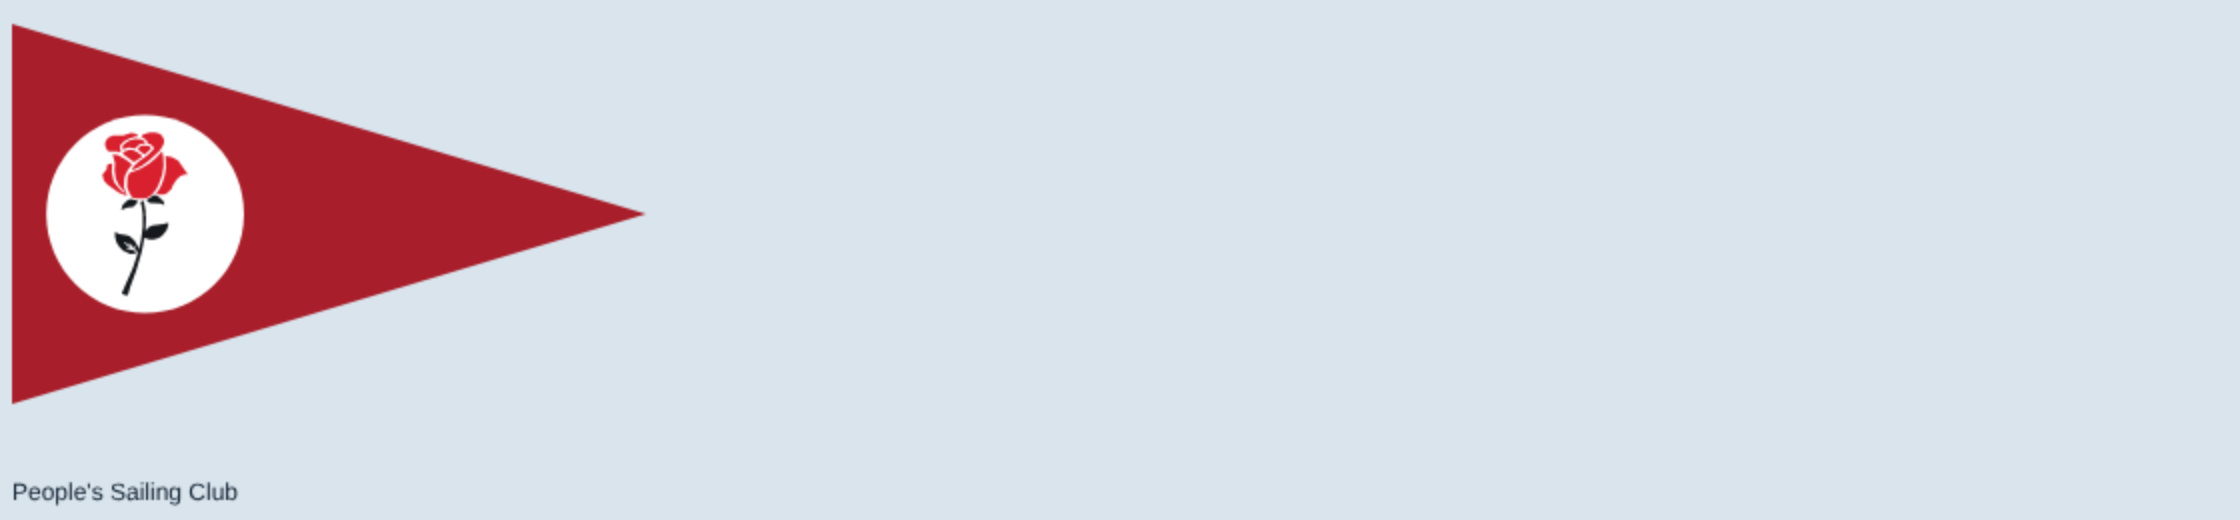
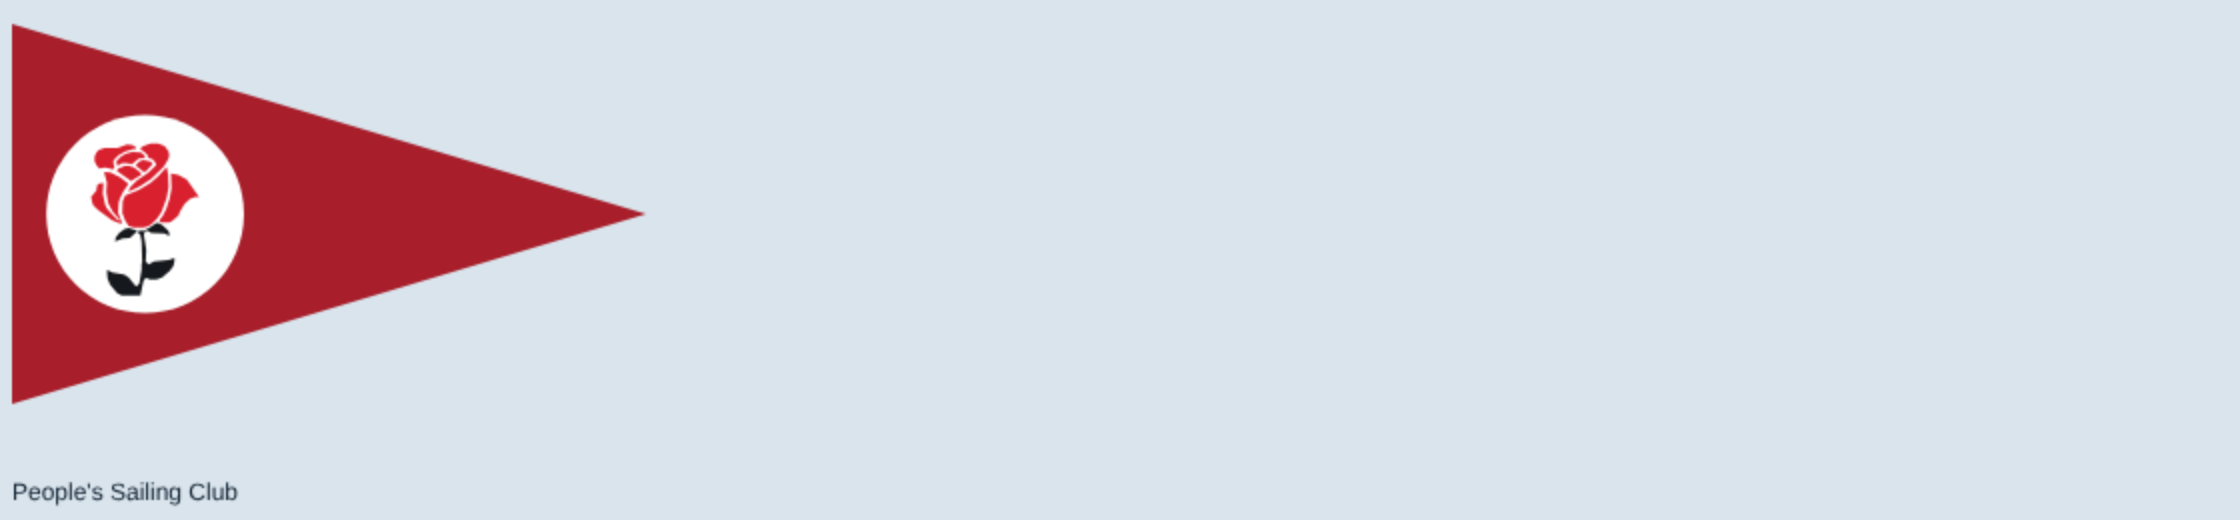
Burgees: People's rose larger and nearer the disc's center, solid leaves, shorter stem
Claude-Session: https://claude.ai/code/session_012Uu5QjYRsEpBxuz7xgHWhs

Changed region(s): [[0.0312, 0.2462, 0.0938, 0.5846]]

diff --git a/src/render/burgeeArt.ts b/src/render/burgeeArt.ts
@@ -32,22 +32,20 @@ function hook(g: G, cx: number, cy: number, h: number, c: string, rot = 0, lw = 
   g.drawImage(t, 0, 0);
 }
 
-/** A rose on its stem, traced from the owner's reference image (unit points, rose height 1): the petals and the stem with its leaves are separate pieces, so the white gaps between petals stay open. */
-const ROSE_W = 0.522727;
+/** A rose on its stem, traced from the owner's reference image (unit points, rose height 1): the petals and the stem with its leaves (solid, the veins filled in, the stem cut short) are separate pieces, so the white gaps between petals stay open. */
+const ROSE_W = 0.710425;
 const ROSE_PETALS: P[][] = [
-  [[0.29, 0], [0.324, 0], [0.355, 0.011], [0.375, 0.037], [0.378, 0.06], [0.372, 0.077], [0.352, 0.111], [0.29, 0.17], [0.239, 0.205], [0.193, 0.227], [0.179, 0.23], [0.19, 0.21], [0.222, 0.179], [0.278, 0.139], [0.315, 0.102], [0.31, 0.088], [0.295, 0.074], [0.278, 0.068], [0.273, 0.054], [0.256, 0.037], [0.239, 0.028], [0.244, 0.017], [0.267, 0.006]],
-  [[0.173, 0.003], [0.199, 0.006], [0.216, 0.017], [0.219, 0.026], [0.205, 0.026], [0.165, 0.037], [0.131, 0.057], [0.108, 0.082], [0.108, 0.099], [0.114, 0.114], [0.105, 0.125], [0.091, 0.119], [0.065, 0.116], [0.04, 0.119], [0.028, 0.108], [0.017, 0.085], [0.017, 0.062], [0.026, 0.043], [0.037, 0.031], [0.065, 0.02], [0.128, 0.02]],
-  [[0.199, 0.04], [0.241, 0.043], [0.259, 0.057], [0.261, 0.068], [0.23, 0.071], [0.199, 0.099], [0.162, 0.094], [0.145, 0.097], [0.131, 0.105], [0.125, 0.102], [0.122, 0.085], [0.142, 0.065], [0.165, 0.051]],
-  [[0.253, 0.08], [0.287, 0.085], [0.298, 0.099], [0.267, 0.131], [0.256, 0.136], [0.216, 0.105], [0.233, 0.085]],
-  [[0.162, 0.108], [0.185, 0.108], [0.207, 0.116], [0.241, 0.142], [0.241, 0.151], [0.193, 0.182], [0.125, 0.134], [0.125, 0.128], [0.134, 0.119]],
-  [[0.364, 0.116], [0.366, 0.116], [0.372, 0.148], [0.375, 0.207], [0.366, 0.261], [0.341, 0.33], [0.318, 0.364], [0.293, 0.389], [0.278, 0.398], [0.256, 0.406], [0.207, 0.406], [0.182, 0.398], [0.165, 0.372], [0.151, 0.335], [0.153, 0.278], [0.165, 0.25], [0.23, 0.224], [0.287, 0.19], [0.324, 0.159]],
-  [[0.062, 0.136], [0.094, 0.139], [0.142, 0.165], [0.179, 0.193], [0.179, 0.199], [0.156, 0.23], [0.139, 0.264], [0.134, 0.287], [0.131, 0.335], [0.151, 0.386], [0.134, 0.384], [0.099, 0.369], [0.034, 0.321], [0.011, 0.298], [0.006, 0.287], [0, 0.259], [0.026, 0.227], [0.028, 0.202], [0.04, 0.193], [0.06, 0.19], [0.057, 0.244], [0.068, 0.295], [0.077, 0.312], [0.102, 0.344], [0.128, 0.369], [0.134, 0.372], [0.139, 0.369], [0.102, 0.327], [0.082, 0.287], [0.074, 0.233], [0.077, 0.188]],
-  [[0.386, 0.145], [0.423, 0.151], [0.463, 0.173], [0.523, 0.259], [0.503, 0.259], [0.477, 0.267], [0.452, 0.293], [0.429, 0.33], [0.423, 0.347], [0.392, 0.375], [0.378, 0.381], [0.338, 0.381], [0.33, 0.372], [0.347, 0.349], [0.364, 0.315], [0.381, 0.264], [0.389, 0.216]],
+  [[0.394, 0], [0.44, 0], [0.483, 0.015], [0.51, 0.05], [0.514, 0.081], [0.506, 0.104], [0.479, 0.151], [0.394, 0.232], [0.324, 0.278], [0.263, 0.309], [0.243, 0.313], [0.259, 0.286], [0.301, 0.243], [0.378, 0.189], [0.429, 0.139], [0.421, 0.12], [0.402, 0.1], [0.378, 0.093], [0.371, 0.073], [0.347, 0.05], [0.324, 0.039], [0.332, 0.023], [0.363, 0.008]],
+  [[0.236, 0.004], [0.27, 0.008], [0.293, 0.023], [0.297, 0.035], [0.278, 0.035], [0.224, 0.05], [0.178, 0.077], [0.147, 0.112], [0.147, 0.135], [0.154, 0.154], [0.143, 0.17], [0.124, 0.162], [0.089, 0.158], [0.054, 0.162], [0.039, 0.147], [0.023, 0.116], [0.023, 0.085], [0.035, 0.058], [0.05, 0.042], [0.089, 0.027], [0.174, 0.027]],
+  [[0.27, 0.054], [0.328, 0.058], [0.351, 0.077], [0.355, 0.093], [0.313, 0.097], [0.27, 0.135], [0.22, 0.127], [0.197, 0.131], [0.178, 0.143], [0.17, 0.139], [0.166, 0.116], [0.193, 0.089], [0.224, 0.069]],
+  [[0.344, 0.108], [0.39, 0.116], [0.405, 0.135], [0.363, 0.178], [0.347, 0.185], [0.293, 0.143], [0.317, 0.116]],
+  [[0.22, 0.147], [0.251, 0.147], [0.282, 0.158], [0.328, 0.193], [0.328, 0.205], [0.263, 0.247], [0.17, 0.181], [0.17, 0.174], [0.181, 0.162]],
+  [[0.494, 0.158], [0.498, 0.158], [0.506, 0.201], [0.51, 0.282], [0.498, 0.355], [0.463, 0.448], [0.432, 0.494], [0.398, 0.529], [0.378, 0.541], [0.347, 0.552], [0.282, 0.552], [0.247, 0.541], [0.224, 0.506], [0.205, 0.456], [0.208, 0.378], [0.224, 0.34], [0.313, 0.305], [0.39, 0.259], [0.44, 0.216]],
+  [[0.085, 0.185], [0.127, 0.189], [0.193, 0.224], [0.243, 0.263], [0.243, 0.27], [0.212, 0.313], [0.189, 0.359], [0.181, 0.39], [0.178, 0.456], [0.205, 0.525], [0.181, 0.521], [0.135, 0.502], [0.046, 0.436], [0.015, 0.405], [0.008, 0.39], [0, 0.351], [0.035, 0.309], [0.039, 0.274], [0.054, 0.263], [0.081, 0.259], [0.077, 0.332], [0.093, 0.402], [0.104, 0.425], [0.139, 0.467], [0.174, 0.502], [0.181, 0.506], [0.189, 0.502], [0.139, 0.444], [0.112, 0.39], [0.1, 0.317], [0.104, 0.255]],
+  [[0.525, 0.197], [0.575, 0.205], [0.629, 0.236], [0.71, 0.351], [0.683, 0.351], [0.649, 0.363], [0.614, 0.398], [0.583, 0.448], [0.575, 0.471], [0.533, 0.51], [0.514, 0.517], [0.459, 0.517], [0.448, 0.506], [0.471, 0.475], [0.494, 0.429], [0.517, 0.359], [0.529, 0.293]],
 ];
 const ROSE_STEM: P[][] = [
-  [[0.315, 0.384], [0.332, 0.386], [0.349, 0.398], [0.372, 0.42], [0.378, 0.432], [0.378, 0.446], [0.355, 0.435], [0.29, 0.432], [0.276, 0.423], [0.27, 0.412], [0.284, 0.406]],
-  [[0.17, 0.409], [0.213, 0.418], [0.216, 0.426], [0.207, 0.44], [0.188, 0.457], [0.153, 0.46], [0.116, 0.474], [0.122, 0.449], [0.148, 0.42]],
-  [[0.244, 0.42], [0.253, 0.42], [0.264, 0.483], [0.264, 0.511], [0.267, 0.514], [0.264, 0.602], [0.267, 0.605], [0.273, 0.591], [0.281, 0.582], [0.304, 0.571], [0.375, 0.562], [0.398, 0.554], [0.403, 0.554], [0.403, 0.571], [0.392, 0.602], [0.364, 0.634], [0.344, 0.648], [0.315, 0.656], [0.284, 0.656], [0.264, 0.648], [0.256, 0.651], [0.241, 0.73], [0.207, 0.847], [0.17, 0.946], [0.156, 0.997], [0.145, 1], [0.122, 0.991], [0.119, 0.983], [0.185, 0.835], [0.21, 0.761], [0.216, 0.733], [0.199, 0.716], [0.199, 0.702], [0.193, 0.69], [0.19, 0.705], [0.185, 0.705], [0.168, 0.676], [0.165, 0.679], [0.168, 0.69], [0.162, 0.69], [0.136, 0.67], [0.131, 0.673], [0.151, 0.693], [0.173, 0.707], [0.156, 0.705], [0.145, 0.707], [0.153, 0.713], [0.185, 0.719], [0.196, 0.724], [0.207, 0.741], [0.17, 0.744], [0.125, 0.722], [0.102, 0.699], [0.085, 0.67], [0.077, 0.639], [0.077, 0.616], [0.08, 0.611], [0.102, 0.622], [0.142, 0.628], [0.165, 0.636], [0.196, 0.662], [0.219, 0.702], [0.219, 0.71], [0.222, 0.713], [0.224, 0.71], [0.236, 0.662], [0.247, 0.577], [0.247, 0.503], [0.241, 0.457], [0.233, 0.426]],
+  [[0.429, 0.521], [0.452, 0.525], [0.475, 0.541], [0.506, 0.571], [0.514, 0.587], [0.514, 0.606], [0.483, 0.591], [0.394, 0.587], [0.371, 0.571], [0.351, 0.583], [0.347, 0.602], [0.363, 0.699], [0.359, 0.776], [0.378, 0.795], [0.413, 0.776], [0.51, 0.764], [0.548, 0.753], [0.548, 0.776], [0.541, 0.803], [0.517, 0.838], [0.467, 0.88], [0.429, 0.892], [0.386, 0.892], [0.367, 0.884], [0.355, 0.888], [0.344, 0.903], [0.324, 1], [0.201, 1], [0.17, 0.981], [0.124, 0.927], [0.108, 0.888], [0.104, 0.838], [0.108, 0.83], [0.139, 0.846], [0.216, 0.861], [0.247, 0.88], [0.29, 0.934], [0.297, 0.938], [0.305, 0.934], [0.317, 0.919], [0.332, 0.826], [0.332, 0.788], [0.336, 0.784], [0.332, 0.645], [0.324, 0.602], [0.301, 0.579], [0.255, 0.622], [0.208, 0.625], [0.158, 0.645], [0.162, 0.618], [0.185, 0.587], [0.22, 0.56], [0.247, 0.556], [0.29, 0.568], [0.305, 0.579], [0.332, 0.571], [0.351, 0.575], [0.367, 0.56], [0.386, 0.552]],
 ];
 function rose(g: G, cx: number, cy: number, h: number, petals: string, stem: string): void {
   g.save(); g.translate(cx - ROSE_W * h / 2, cy - h / 2); g.scale(h, h);
@@ -138,7 +136,7 @@ export const PARODY_BURGEES: Burgee[] = [
   { id: 'byc', shape: 'pennant', ratio: 1.667, // Campanile YC (Berkeley, 1929), on the owner's template: five equal stripes to the point, Berkeley blue and California gold; no charge (the name does the work)
     draw: (g, W, H) => { fill(g, W, H, '#003262'); rect(g, '#fdb515', W * 0.2, 0, W * 0.2, H); rect(g, '#fdb515', W * 0.6, 0, W * 0.2, H); } },
   { id: 'csc', shape: 'pennant', ratio: 1.667, // People's: a co-op, so deep red and white; one rose, from the owner's reference, on a white disc
-    draw: (g, W, H) => { fill(g, W, H, '#a81f2b'); dot(g, WHITE, W * 0.21, H * 0.5, H * 0.26); rose(g, W * 0.21, H * 0.5, H * 0.43, '#d9202e', '#15181c'); } },
+    draw: (g, W, H) => { fill(g, W, H, '#a81f2b'); dot(g, WHITE, W * 0.21, H * 0.5, H * 0.26); rose(g, W * 0.21, H * 0.515, H * 0.4, '#d9202e', '#15181c'); } },
   { id: 'emyc', shape: 'pennant', ratio: 1.5, // small and informal: sky, reed green, mud; a tide line
     draw: (g, W, H) => { fill(g, W, H, '#8ec7e8'); rect(g, '#6b5338', 0, H * 0.62, W, H * 0.38); rect(g, '#4c7a3a', 0, H * 0.5, W, H * 0.12); } },
   { id: 'eyc', shape: 'pennant', ratio: 1.6, // classic, 1890 (the owner's template): a dark-blue hoist panel bearing one white oak leaf, then red and white stripes to the point, a gold border, a white hoist band
